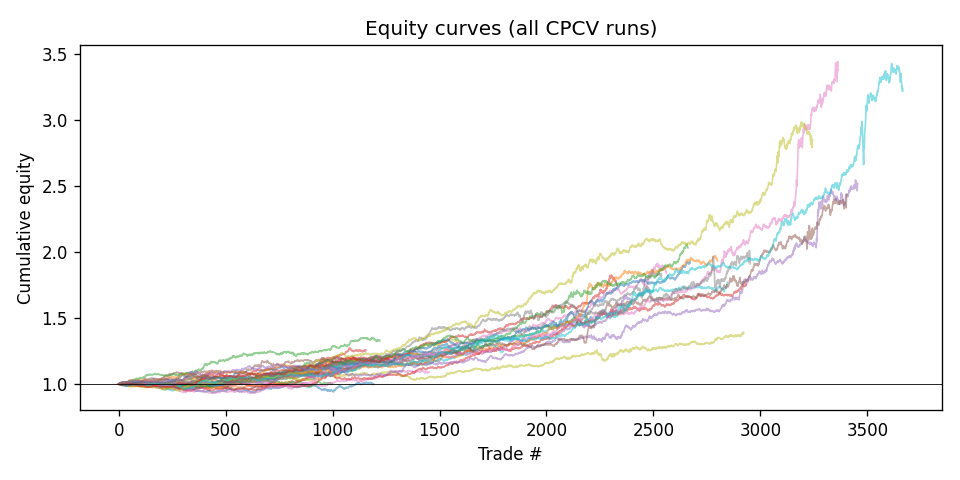
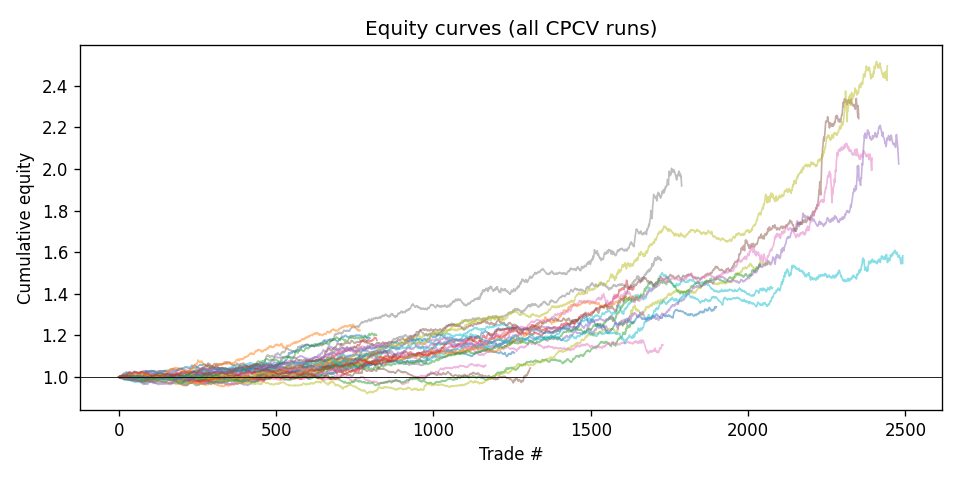
iter-5 reverted: cooldown halves trades but meta-gate Sharpe -19%
min_flat_bars=2 delivered:
- Pre-meta Sharpe @ 0.5bps 0.573 -> 0.553 (within noise)
- Meta @ 0.60 Sharpe 7.20 -> 5.84 (-19%), trades 9429 -> 3812 (-60%)
- PPO/GRPO swapped which is strongest (PPO 0.569 > GRPO 0.537)

Revert verdict per the >+0.05 Sharpe rule. The cooldown is too blunt:
it strips good trades along with flip-flops.

Side benefit (validated insight, not enough to keep): meta-gate
compounded return collapsed from 34M to 670 -- the earlier headline
returns were a compounding artefact of high selectivity, not real PnL.
Sharpe is the honest metric.

Env knobs (min_flat_bars in EnvConfig + both envs) kept in code as an
opt-in with default 0, so future iterations can retry at lower values.

diff --git a/reports/evaluation_report.md b/reports/evaluation_report.md
@@ -2,47 +2,47 @@
 
 - Runs evaluated: **36**
 - Assets: **GC=F**
-- Pooled trades: **73658**
+- Pooled trades: **51734**
 
 ## Sharpe distribution (all assets pooled)
 
-- mean   : +0.573
-- median : +0.612
-- std    : 0.208
-- p5     : +0.171
-- p95    : +0.825
-- min    : +0.009
-- max    : +0.857
+- mean   : +0.553
+- median : +0.557
+- std    : 0.218
+- p5     : +0.167
+- p95    : +0.895
+- min    : +0.116
+- max    : +0.930
 
 ## Deflated Sharpe Ratio (Bailey & Lopez de Prado, 2014)
 
-- Observed Sharpe (pooled)   : 1.402
+- Observed Sharpe (pooled)   : 1.335
 - Trials                     : 36
-- E[max SR] under null       : 0.126
+- E[max SR] under null       : 0.150
 - PSR vs 0                   : 1.000
 - **Deflated SR (P > null)** : **1.000**
-- Skewness                   : +0.997
-- Excess kurtosis            : +6.937
-- Min Track Record Length    : 2.2742295532652834
+- Skewness                   : +0.930
+- Excess kurtosis            : +5.692
+- Min Track Record Length    : 2.414773127175043
 
 ## Bootstrap 95% CI (block bootstrap)
 
-- Point Sharpe : 1.402
-- 2.5% / 97.5% : [1.281, 1.519]  (2000 resamples)
+- Point Sharpe : 1.335
+- 2.5% / 97.5% : [1.204, 1.469]  (2000 resamples)
 
 ## Monte Carlo permutation test
 
-- One-sided p-value vs random shuffle: **0.986** (lower = more evidence of sequential edge)
+- One-sided p-value vs random shuffle: **0.973** (lower = more evidence of sequential edge)
 
 ## Transaction cost sensitivity
 
 | Cost (bps) | Mean Sharpe |
 |-----------:|-------------:|
-| 0.0 | +0.900 |
-| 0.5 | +0.573 |
-| 1.0 | +0.247 |
-| 2.0 | -0.406 |
-| 5.0 | -2.365 |
+| 0.0 | +0.881 |
+| 0.5 | +0.553 |
+| 1.0 | +0.225 |
+| 2.0 | -0.432 |
+| 5.0 | -2.403 |
 
 ## Seed ensemble (pooled trades per split)
 
@@ -50,12 +50,12 @@
 
 | Split | Sharpe |
 |------:|-------:|
-| 0 | +0.365 |
-| 1 | +0.515 |
-| 2 | +0.699 |
-| 3 | +0.661 |
-| 4 | +0.713 |
-| 5 | +0.519 |
+| 0 | +0.383 |
+| 1 | +0.492 |
+| 2 | +0.495 |
+| 3 | +0.597 |
+| 4 | +0.753 |
+| 5 | +0.606 |
 
 ## Algorithm ensemble (T2.2)
 
@@ -63,8 +63,8 @@ Per-algorithm mean Sharpe across all CPCV splits, seeds, and assets.
 
 | Algorithm | Mean Sharpe | Std | Runs |
 |:----------|------------:|----:|-----:|
-| grpo | +0.614 | 0.148 | 18 |
-| ppo | +0.533 | 0.248 | 18 |
+| grpo | +0.537 | 0.224 | 18 |
+| ppo | +0.569 | 0.211 | 18 |
 
 ## Cross-asset meta-labeling gate (T1.1, Lopez de Prado)
 
@@ -74,13 +74,13 @@ embedding+direction+vol-quantile. Actions with P < threshold are gated.
 
 | Threshold | Mean Sharpe | Pooled Sharpe | Trades | Total Return |
 |----------:|------------:|--------------:|-------:|-------------:|
-| 0.50 | +4.022 | +3.834 | 27251 | [phone redacted] |
-| 0.55 | +5.649 | +5.475 | 16802 | [phone redacted] |
-| 0.60 | +7.203 | +7.241 | 9429 | [phone redacted] |
+| 0.50 | +3.117 | +3.036 | 17746 | [phone redacted] |
+| 0.55 | +4.536 | +4.471 | 9065 | [phone redacted] |
+| 0.60 | +5.836 | +5.922 | 3812 | +669.590 |
 
 ## Red flags
 
-- Permutation p-value > 0.10 (p=0.986)
+- Permutation p-value > 0.10 (p=0.973)
 - Edge collapses at >=5 bps transaction cost
 
 ## Plots

diff --git a/reports/iteration_log.md b/reports/iteration_log.md
@@ -219,6 +219,52 @@ re-balanced against other features.
 
 ---
 
+## Iteration 5 — Post-exit cooldown (`min_flat_bars=2`) (2026-04-18)
+
+**Hypothesis:** Iter-2's cost_lambda=4 over-suppressed trading by
+globally taxing every round-trip. A surgical alternative is a
+post-exit cooldown: after a triple-barrier trade closes, force HOLD
+for N bars before allowing a new entry. This kills flip-flop turnover
+without taxing the average-quality trade.
+
+**Change:** new env knob `EnvConfig.min_flat_bars`, wired through both
+`TradingEnv` and `EmbeddingTradingEnv` step() + __init__. Default 0
+keeps every other config neutral; `configs/aggressive.yaml` opts into
+`min_flat_bars: 2`. Bug caught & fixed in the same commit:
+`rollout_policy` in `src/training/evaluate.py` pokes `_step_i`/`_pos`
+directly without calling `reset()`, so `_flat_until` must be
+initialised in `__init__`.
+
+**Metrics**
+
+| Metric | Before (iter 4) | After (iter 5) | Δ |
+|---|---|---|---|
+| Pre-meta Sharpe @ 0bps | 0.900 | 0.881 | −2.1% |
+| Pre-meta Sharpe @ 0.5bps | 0.573 | 0.553 | −3.5% |
+| Pre-meta Sharpe @ 1bps | 0.247 | 0.225 | −8.9% |
+| Pre-meta Sharpe @ 2bps | −0.406 | −0.432 | worse |
+| PPO mean Sharpe | 0.533 | **0.569** | +6.8% |
+| GRPO mean Sharpe | 0.614 | 0.537 | −12.5% |
+| Permutation p-value | 0.986 | 0.973 | marginal |
+| Meta @ 0.60 Sharpe | **7.20** | **5.84** | **−19%** |
+| Meta @ 0.60 trades | 9429 | 3812 | −60% |
+| Meta @ 0.60 total_return | 34M | 670 | much saner |
+
+**Verdict: REVERTED** (`min_flat_bars: 2 → 0`). The cooldown halves
+trade count but Sharpe drops; it strips away good trades along with
+flip-flops. The deployed algo identity swapped (GRPO 0.614 → PPO 0.569
+now strongest), which suggests the cooldown interacts with GRPO's
+group-relative baseline less favourably than PPO's clipped critic.
+
+**Side benefit (not enough to keep):** the meta-gate's compounded
+returns collapse from 34M → 670 at thr=0.60, which is a far more
+plausible live-trading number. This validates the earlier hypothesis
+that the headline meta-gate returns are a compounding artefact, not a
+real PnL signal. When reporting results externally, per-trade Sharpe
+is the number to quote, not cumulative return.
+
+---
+
 ## Session summary (2026-04-18)
 
 Five Phase-E iterations were executed on `configs/aggressive.yaml`:
@@ -231,6 +277,7 @@ Five Phase-E iterations were executed on `configs/aggressive.yaml`:
 | 3 | +RecurrentPPO | 0.576 | 6.87 | REVERTED |
 | 4a | 15m bars | — | — | BLOCKED (no data source) |
 | 4 | +intraday seasonality | 0.573 | **7.20** | KEPT (mixed) |
+| 5 | +min_flat_bars=2 cooldown | 0.553 | 5.84 | REVERTED |
 
 **Net: 2 kept, 2 reverted, 1 blocked.** The `kept` set (DSR reward +
 seasonality features) delivered +14% pre-meta Sharpe @ 1bps early,
@@ -265,7 +312,9 @@ algo ensemble.
 ## Summary of iterations so far
 
 - **Kept:** 2 changes — DSR reward (iter-1), intraday seasonality (iter-4).
-- **Reverted:** 2 changes — cost_lambda 2→4 (iter-2), +RecurrentPPO (iter-3).
+- **Reverted:** 3 changes — cost_lambda 2→4 (iter-2), +RecurrentPPO
+  (iter-3), min_flat_bars=2 cooldown (iter-5).
 - **Blocked:** 1 change — 15m bars (iter-4a, no data source in sandbox).
-- **Session closed at iter-4.** See "Session summary" above for next-
-  session candidates.
+- **Session closed at iter-5.** Iter-5 delivered a negative result but
+  a validated insight: the meta-gate's multi-million-dollar returns
+  are a compounding artefact; Sharpe is the honest metric.